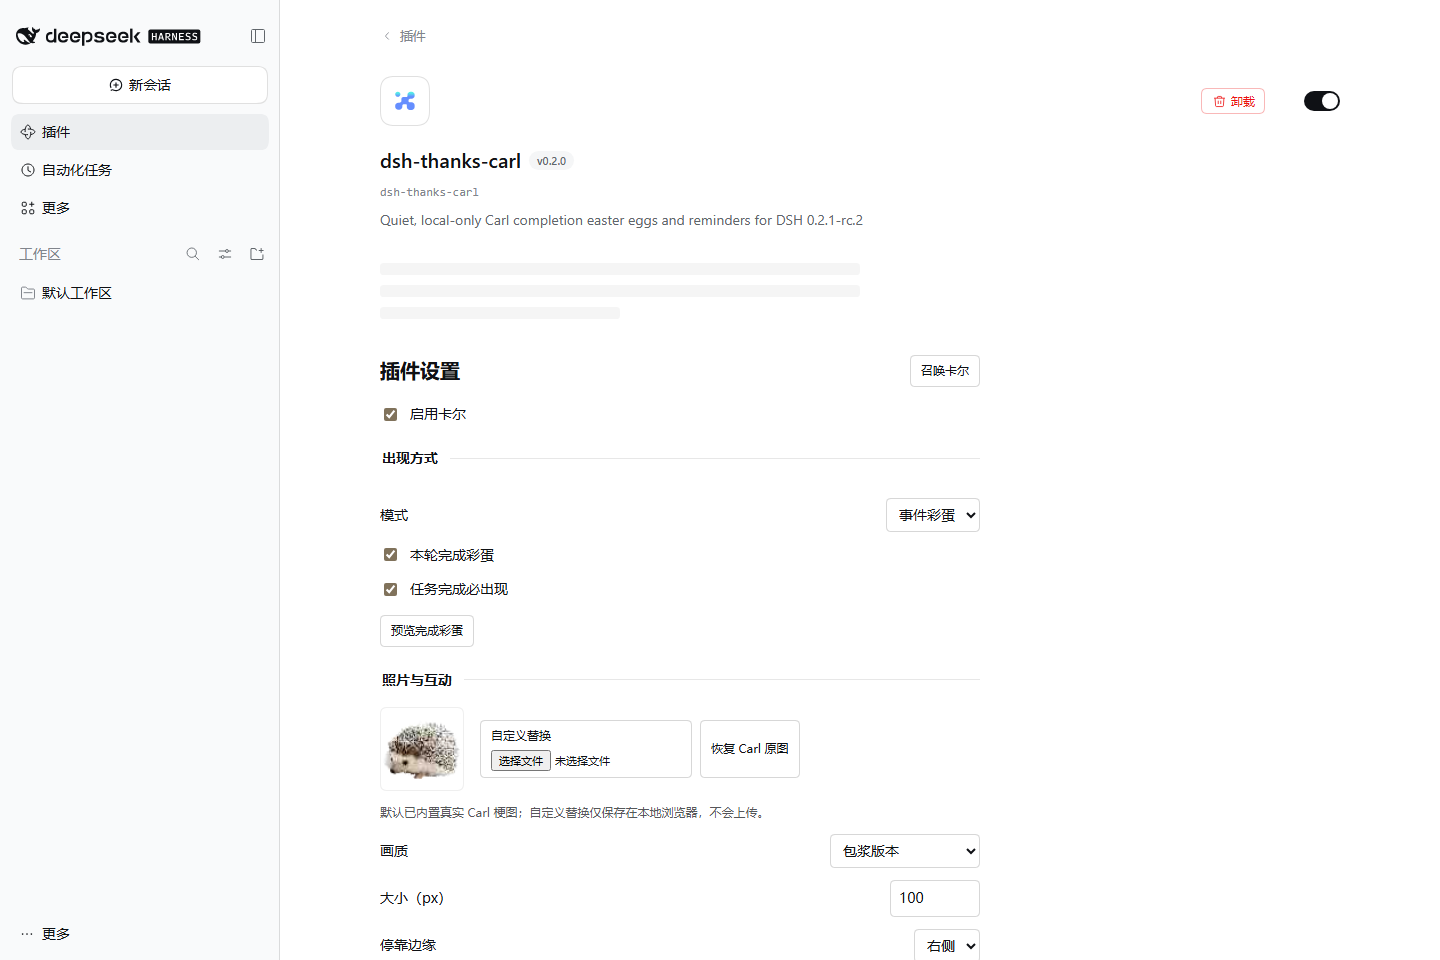
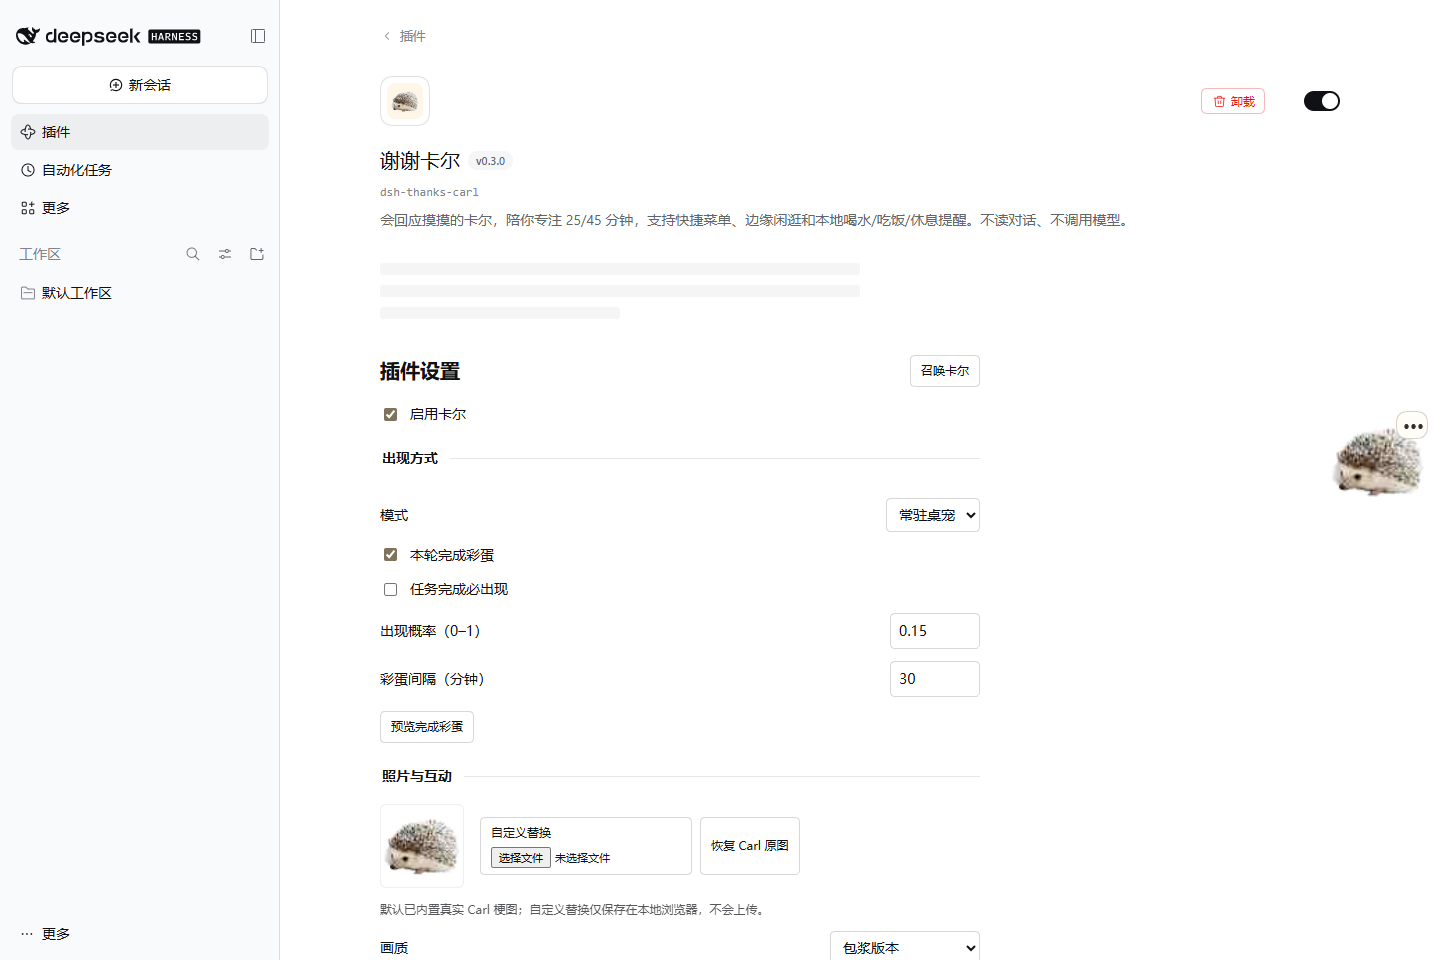
chore(dsh-thanks-carl): 准备0.3.0发布文档与市场演示

diff --git a/README.md b/README.md
@@ -6,28 +6,28 @@
 [![license](https://img.shields.io/npm/l/dsh-thanks-carl.svg)](LICENSE)
 [![dsh](https://img.shields.io/badge/dsh-0.2.1%2B-4D6BFE)](https://github.com/deepseek-ai/deepseek-harness)
 
-每轮任务做完，让那只刺猬从屏幕边缘探头，跟你说一句「谢谢卡尔」；它也会提醒你喝水、吃饭、起来动一动。
+让卡尔陪你工作：摸摸会回应，一起专注 25 / 45 分钟，偶尔沿屏幕边缘挪一挪；也保留任务完成彩蛋和喝水、吃饭、休息提醒。
 
-插件里自带卡尔照片，装上就能用——不用自己找图，也不用配置。
+插件里自带卡尔照片，装上就能用——不用自己找图，也不用配置模型。
 
-![卡尔从屏幕边缘探头，说完「谢谢卡尔」又缩回去](<docs/screenshots/05-demo.gif>)
+![卡尔 0.3.0 的摸摸回应、快捷菜单、专注计时和回小窝真实操作](<docs/screenshots/06-companion.gif>)
 
-<sub>7 秒演示：完成彩蛋（气泡上的「预览」是因为用设置里的预览按钮录制）和喝水提醒。</sub>
+<sub>7 秒真实操作演示：摸摸、打开菜单、开始专注、回小窝。使用隔离 DSH 实例录制，不是模拟界面。</sub>
 
 ## 功能
 
-- **任务完成的彩蛋**：一轮真的做完了，卡尔才有机会探头；默认 15% 概率、间隔至少 30 分钟，出现时点「谢谢卡尔」或关掉气泡它就走了。失败、取消、中断的轮次它不会来道谢。
-- **两种模式**：事件彩蛋（偶尔出现）或常驻桌宠（一直在，点一下有反应）。常驻模式可以关掉「完成彩蛋」只留桌宠。
-- **自带照片**：原版包浆图，也可以换成同一张照片的清晰版；想用自己的图就上传一张，随时一键恢复卡尔原图。
-- **本地提醒**：喝水（默认每 60 分钟）、吃饭（默认 12:00、18:00）、工作间歇（默认关）；提醒带「稍后 10 分钟」。默认 00:00–08:00 勿扰。
-- **不打扰**：默认真静音、气泡只占屏幕边缘一小块、不遮挡点击；跟随系统「减少动态效果」设置。
-- **完全本地**：不联网、不读聊天内容、不发消息、不调用模型。
-
-### 源码版新增（尚未发布到 npm）
-
 - **摸摸卡尔**：点一下或按 Enter/空格，它会回一句随机短话；快速连点四下会害羞，歇一会儿再摸。
-- **陪你专注**：25 / 45 分钟，支持暂停、继续、结束；刷新页面或切会话不会重置，同一浏览器的标签页共用一个计时。计时中安静陪伴，到期邀请休息，不自动开始下一轮。
+- **陪你专注**：25 / 45 分钟，支持暂停、继续、结束；刷新页面或切会话不会重置，同一浏览器的标签页共用一个计时。到期邀请休息，不自动开始下一轮。
 - **就地小菜单**：点击卡尔旁的「···」、右键或长按照片，可以标记「我喝过水了」、安静一小时、今天先休息或唤醒卡尔。喝水会从现在重新计时；今天休息到本地午夜。
+- **任务完成的彩蛋**：一轮真的做完了，卡尔才有机会探头；默认 15% 概率、间隔至少 30 分钟。失败、取消、中断的轮次不会来道谢。
+- **两种模式**：事件彩蛋（偶尔出现）或常驻桌宠（一直陪着你）。常驻模式可以关掉「完成彩蛋」只留桌宠。
+- **自带照片**：原版包浆图，也可以换成同一张照片的清晰版；想用自己的图就上传一张，随时一键恢复卡尔原图。
+- **本地提醒**：喝水默认每 60 分钟，吃饭默认 12:00、18:00，工作间歇默认关；可以「稍后 10 分钟」。默认 00:00–08:00 勿扰。
+- **完全本地**：不联网、不读聊天内容、不发消息、不调用模型；提示音默认关闭。
+
+![卡尔快捷菜单：专注、喝水、休息、活动方式与回小窝](<docs/screenshots/07-menu.png>)
+
+### 收起、睡觉和活动
 
 - **关菜单不等于收起**：菜单右上角 ×、点空白或 Esc 只关菜单，手动唤出的卡尔继续陪着你；气泡的 × 只关闭提示。
 - **回小窝**：菜单里的「回小窝」让卡尔缩回边缘，只留一个小头像，点它再出来。不会停止专注计时或清除免扰；下一次正常到期的提醒仍可叫它出来。不想显示任何入口，关闭「启用卡尔」。手动召唤/回窝只作用于当前标签页，刷新后回到所选出现模式。
@@ -35,21 +35,17 @@
 
 菜单、提示气泡打开，鼠标/键盘正在操作卡尔，专注、睡觉、勿扰时段、页面后台或系统要求减少动态效果时，都暂停闲逛。免扰只抑制自动提醒和完成彩蛋，手动互动仍可用。专注结束后若已离开超过两分钟，只保留完成状态，不补弹气泡；关闭页面期间不会发系统通知。
 
-以下菜单截图来自源码版的真实隔离运行；下面的 npm 安装命令目前仍安装已发布的 0.2.3，文首 GIF 也是 0.2.3 的演示。
+## 安装与更新
 
-![源码版卡尔快捷菜单：专注、喝水、休息、活动方式与回小窝](<docs/companion-menu.png>)
-
-## 安装
-
-在 DSH 的插件市场里装，或者用命令行：
+在 DSH 的插件市场里安装「谢谢卡尔」，或用命令行安装 / 更新到当前正式版本：
 
 ```powershell
-dsh plugin --profile web add dsh-thanks-carl
+dsh plugin --profile web add dsh-thanks-carl@0.3.0
 ```
 
-装好后**重启一次 `dsh web`**，再刷新页面，卡尔就出现了。插件列表里的名字会跟随界面语言显示为「谢谢卡尔」或「Thanks Carl」。
+装好后**重启一次 `dsh web`**，再刷新页面。已有安装也可以在插件市场里更新；插件列表里的名字会跟随界面语言显示为「谢谢卡尔」或「Thanks Carl」。本地链接开发安装与市场安装不同，不需要覆盖你的开发链接。
 
-需要 DSH Web GUI 0.2.1 或更高版本（不支持 0.3）；页面需在 `https` 或 `localhost` 下打开，浏览器过旧或被禁用本地存储时会自动停用，不影响 DSH 本身。
+这里的 **0.3.0 是卡尔插件版本**；支持的 DSH 仍为 `>=0.2.1-0 <0.3.0-0`（Web GUI），不是 DSH 0.3。页面需在 `https` 或 `localhost` 下打开；浏览器过旧或被禁用本地存储时会自动停用，不影响 DSH 本身。
 
 ## 使用
 
@@ -60,6 +56,7 @@ dsh plugin --profile web add dsh-thanks-carl
 | 设置 | 说明 |
 |---|---|
 | 模式 | 事件彩蛋 / 常驻桌宠 |
+| 活动方式 | 默认乖乖待着，可选自己逛逛 |
 | 本轮完成彩蛋 | 任务完成后允许卡尔出现 |
 | 任务完成必出现 | 勾上则每轮都来；不勾按概率和间隔出现 |
 | 出现概率 / 彩蛋间隔 | 默认 0.15 / 30 分钟 |
@@ -73,9 +70,9 @@ dsh plugin --profile web add dsh-thanks-carl
 
 「召唤卡尔」立即让卡尔出现；下方的预览按钮可以分别看完成彩蛋、喝水、吃饭、休息长什么样。气泡上的「稍后 10 分钟」只对提醒有效。
 
-![喝水提醒](<docs/screenshots/03-water.png>)
+![专注计时：卡尔安静陪伴，支持暂停和结束](<docs/screenshots/08-focus.png>)
 
-把卡尔拖到屏幕另一侧就会换边停靠；手机上它会缩在角落，不挡内容。
+把卡尔拖到屏幕另一侧就会换边停靠；手机上可长按打开菜单，菜单限高，保持在屏幕内。
 
 ## 隐私
 
@@ -83,14 +80,10 @@ dsh plugin --profile web add dsh-thanks-carl
 - 设置和上传的图片都保存在你当前浏览器里（localStorage），不跨设备同步。
 - 不申请系统通知权限，不采集任何统计。
 
-## 兼容性
+## 兼容性与限制
 
-- DeepSeek Harness `>=0.2.1-0 <0.3.0-0`（Web GUI）
-- Node.js `>=22.12`（仅安装时用到）
-- 支持 Web Locks 的现代浏览器（Chrome / Edge / Firefox / Safari 近期版本）
-
-## 已知限制
-
+- DeepSeek Harness `>=0.2.1-0 <0.3.0-0`（Web GUI），Node.js `>=22.12`。
+- 需要支持 Web Locks 的现代浏览器（Chrome / Edge / Firefox / Safari 近期版本）。
 - 页面要开着才可能提醒；关掉浏览器就不会响，也不会弹系统通知。
 - 后台标签页或电脑睡眠期间错过的提醒不会补发。
 - 同一浏览器多标签页会去重，只出现一次；换浏览器或换端口就是另一份设置。
@@ -137,20 +130,20 @@ pwsh -File scripts/test-install.ps1
 
 ## English
 
-A quiet Carl the Hedgehog easter egg for [DeepSeek Harness](https://github.com/deepseek-ai/deepseek-harness): when a turn really finishes, Carl peeks in from the edge of the screen and says "谢谢卡尔" — and reminds you to drink water, eat, and take breaks.
+A quiet, local Carl companion for [DeepSeek Harness](https://github.com/deepseek-ai/deepseek-harness): pat reactions, a shared 25/45-minute focus timer, a quick menu, optional edge wandering, completion easter eggs and water/meal/break reminders.
 
-- **Completion easter egg**: 15% chance per finished turn, 30-minute cooldown by default; failed, cancelled or interrupted turns are never congratulated.
-- **Two modes**: occasional easter egg, or a resident desktop pet.
-- **Bundled photo**: the original patina version, a clearer variant of the same photo, or upload your own and restore the original anytime.
-- **Local reminders**: water every 60 minutes, meals at 12:00 and 18:00, work breaks off by default, quiet hours 00:00–08:00, snooze 10 minutes.
-- **Fully local**: no network, no telemetry, never reads your conversation, no model calls.
-
-Unreleased in source: pet reactions, a shared 25/45-minute focus timer with pause/resume, and a local quick menu (water acknowledgment, one-hour/today quiet, wake). Closing the menu keeps a manually summoned Carl visible; “回小窝” returns it to a small avatar without ending focus. Optional edge wandering is off by default and pauses during interaction, focus, sleep, background use or reduced motion. Drag follows your pointer and docks gently; all animation uses the original photograph. npm still serves 0.2.3; the GIF above shows that published version.
+- Pat with a click, Enter or Space; four rapid pats make Carl shy.
+- Focus supports pause/resume/end and persists across reloads and tabs. No automatic next round.
+- Close only the menu with ×, outside click or Escape; “回小窝” leaves a small avatar without ending focus or quiet time.
+- Wandering is off by default and pauses during interaction, focus, quiet hours, background use or reduced motion. Drag follows the pointer and docks gently. All animation uses the original photograph.
+- Completion easter eggs default to 15% with a 30-minute cooldown; failed/cancelled/interrupted turns are never congratulated.
+- Local reminders: water every 60 minutes, meals at 12:00/18:00, breaks off, quiet hours 00:00–08:00, snooze 10 minutes.
+- No network, telemetry, chat reading or model calls. Closed pages do not send system notifications.
 
 ```powershell
-dsh plugin --profile web add dsh-thanks-carl
+dsh plugin --profile web add dsh-thanks-carl@0.3.0
 ```
 
-Restart `dsh web` once, then reload the page. Settings live under Plugins → Installed → dsh-thanks-carl → Plugin settings. Requires DSH 0.2.1+ (<0.3) and Node 22.12+ at install time. MIT for the code; the Carl meme photo ships for personal, non-commercial use with this plugin only.
+Restart `dsh web` once, then reload. Settings: Plugins → Installed → dsh-thanks-carl → Plugin settings. **Plugin 0.3.0 still requires DSH 0.2.1+ (<0.3)** and Node 22.12+. The 7-second GIF shows actual 0.3.0 interactions in an isolated DSH instance. MIT for code; the Carl photo is provided for personal, non-commercial use with this plugin only.
 
 Related local plugins: [dsh-cost-voice](https://github.com/gongfpp/dsh-cost-voice) (per-turn spend voice announcements) and [dsh-novel-fish](https://github.com/gongfpp/dsh-novel-fish) (read local novels under the chat without sending them to the model).

diff --git a/docs/verification.md b/docs/verification.md
@@ -2,6 +2,15 @@
 
 验收环境：Mass-PC / Windows 11，日期见各节。开发与测试只在本项目目录内进行；未调用其他模型、AI CLI 或子 Agent。
 
+## 2026-11-11：0.3.0 发布候选（尚未发布）
+
+- 版本、双语 README、插件描述与作者截图声明已更新到 0.3.0；插件仍兼容 DSH `>=0.2.1-0 <0.3.0-0`，不把插件版本误认为 DSH 版本。原有功能实现沿用下节的 16 组真实浏览器验收，本轮没有改动运行逻辑。
+- 新首屏 `docs/screenshots/06-companion.gif` 来自隔离真实 DSH 操作：摸摸、菜单、25 分钟专注、回小窝与出窝。600×520、优化后 39 帧、总时长 7000ms、80768 字节；录制期间 0 模型请求、0 页面异常。菜单、专注和设置截图同样来自实际页面，无私人会话或凭据。
+- `npm run check`：58/58 测试通过，构建与包边界检查通过；26 个文件，零运行时依赖。`npm pack --ignore-scripts` 生成候选包 1253512 字节；只做本地打包，没有执行 `npm publish`。
+- 将候选 tgz 安装到全新隔离目录后，实际导入 Host 得到 `name=thanks-carl`、`inject=[connection,agents]`、`apply` 为函数，确认版本 0.3.0、客户端、图标、双语元数据与三张新增演示资源都在包内。安装/卸载脚本各执行两次，无关依赖与 bundle 保留。
+- 用户随后批准先制作 AI 多帧动作样片。样片尚未生成、未接入或纳入本候选包；待可用生成入口和用户审核，未经授权不使用额外付费接口。发布与市场提交保留待样片审核决定，不能把候选验证说成已发布。
+- 录制结束后仅停止核对过的 3345 / `carl-test` 隔离 fixture 服务；未修改或重启用户服务。
+
 ## 2026-11-11：菜单/回小窝与轻量运动（未发布）
 
 - 核心体验：×、空白、Esc 只关闭菜单，主动召唤的卡尔不跟着消失；显式「回小窝」保留小头像，专注仍继续；睡觉只抑制自动打扰与闲逛。硬约束：原照片、无额外模型/Agent、不改用户服务；已批准折中：原图轻动画，不是逐帧走路或物理桌宠。

diff --git a/CHANGELOG.md b/CHANGELOG.md
@@ -1,6 +1,6 @@
 # 更新记录
 
-## 未发布
+## 0.3.0 · 2026-11-11
 
 - 点按/键盘摸摸，短句避免紧邻重复；快速连续四下害羞并短暂冷却，尊重减少动态效果。
 - 新增 25/45 分钟专注：暂停、继续、结束、到期休息；浏览器本地持久化，Web Locks 保证多标签只结算一次。专注时消费但不弹出普通提醒与完成彩蛋，过期不补播。
